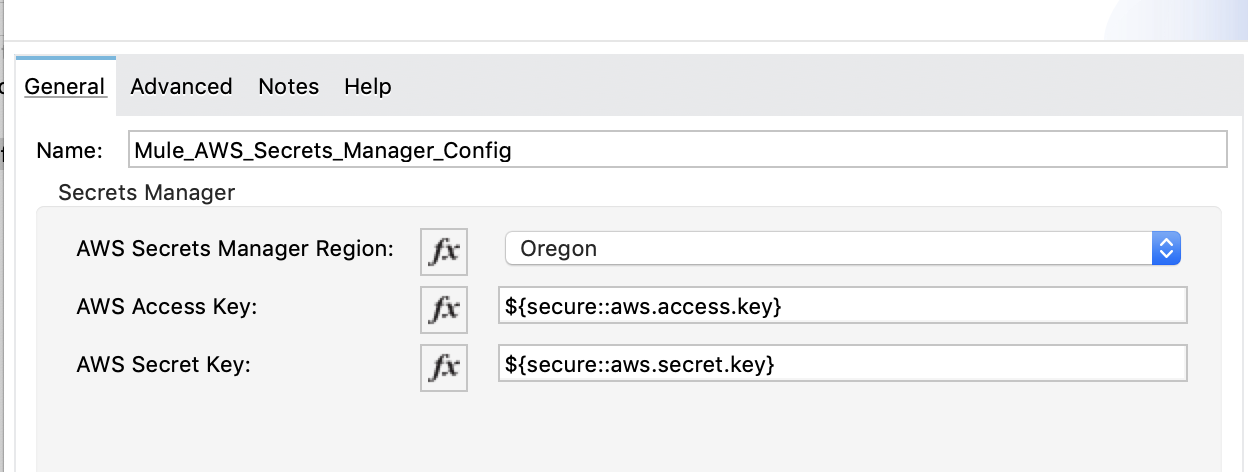
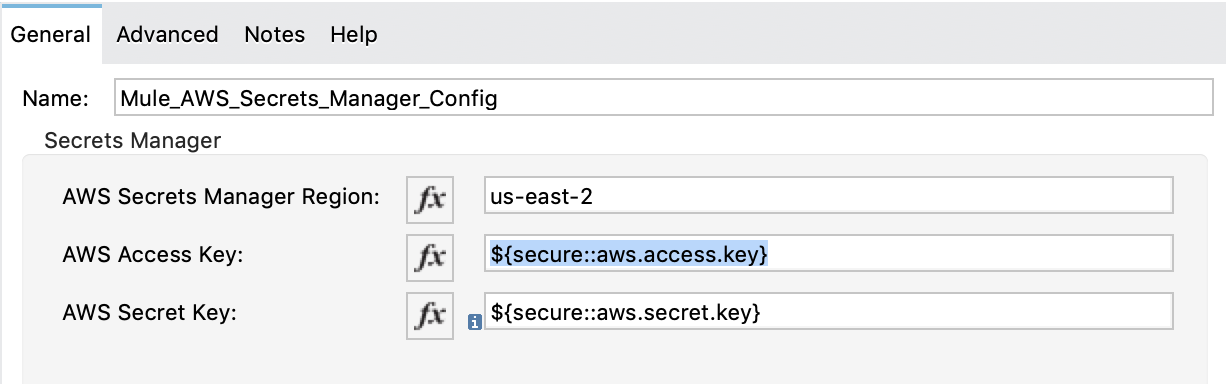
Updated Readme

Changed region(s): [[0.0, 0.0, 0.9918, 1.0], [0.31, 0.75, 0.9608, 0.9062], [0.9608, 0.0, 1.0, 0.0312]]

diff --git a/README.md b/README.md
@@ -26,8 +26,7 @@ Add this dependency to your application pom.xml
 ## Configuration
 
 ### Region
-Regions are provided in a drop down format. Behind the scenes, the common name is replaced by the actual region name.
-![alt text](regions.png)
+Regions are to be provided in plain text.
 
 ### Access and Secret Keys
 These should be provided as part of the wrapper.conf or during deployment.
